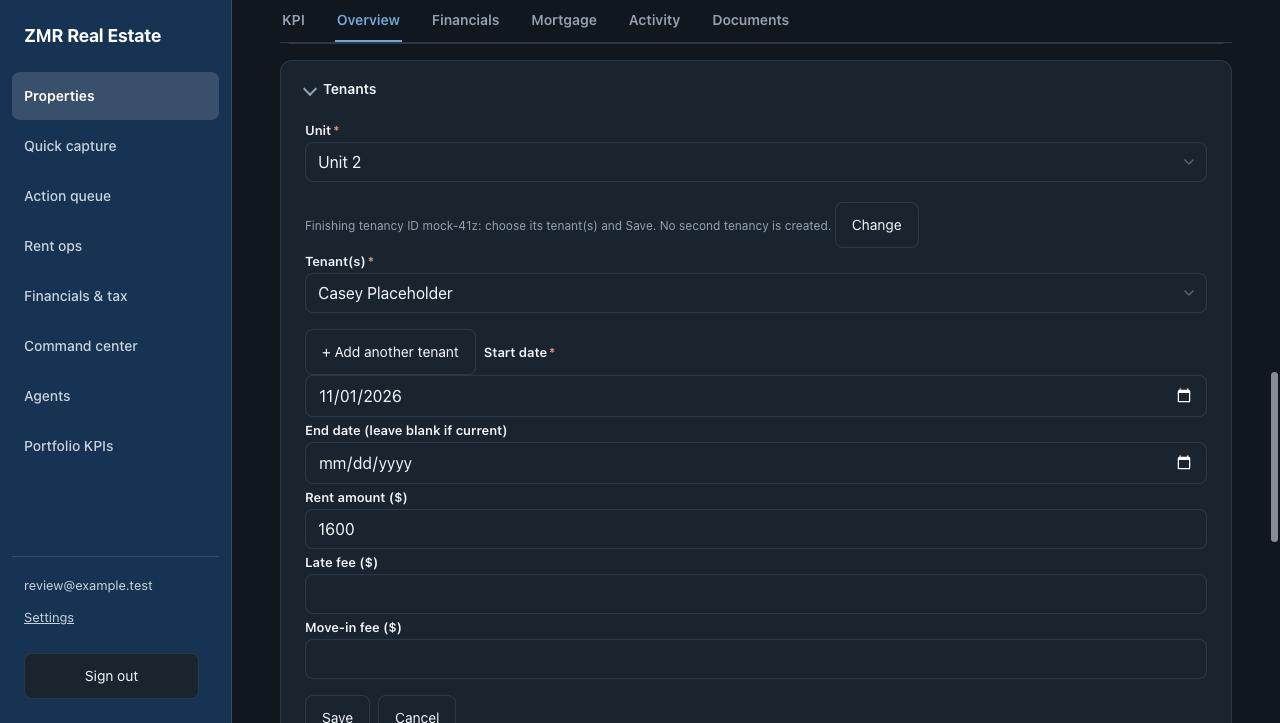
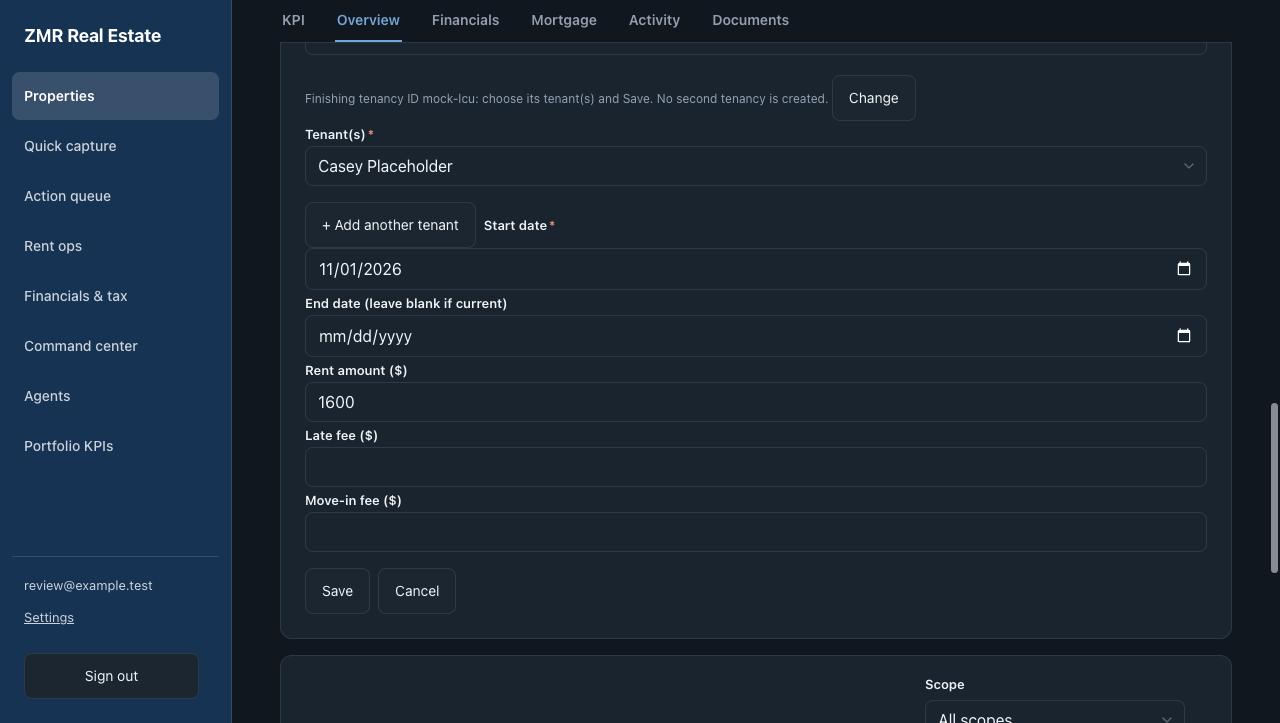
T4: owner review page — light-theme captures of key desktop/phone states (dark kept, collapsed), theme explanation, 8b retaken with Save/Cancel visible, status (app delta cleared; recovery correction outstanding), planner findings P1–P6 separated from page corrections with now/later recommendation (

diff --git a/docs/planning/agents/owner-review-billing-tenant/index.html b/docs/planning/agents/owner-review-billing-tenant/index.html
@@ -53,198 +53,80 @@
   li { margin-bottom: 4px; }
   code { font-size: .88em; }
   .reply { border-left: 4px solid var(--accent); }
+  .theme { background: var(--border); color: var(--text); }
+  .status { border-left: 4px solid var(--hosted-fg); }
+  details.dark { margin-top: 12px; }
+  details.dark > summary { cursor: pointer; color: var(--accent); font-weight: 600; }
+  details.dark .shots { margin-top: 12px; }
+  table { width: 100%; border-collapse: collapse; font-size: .92rem; }
+  th, td { text-align: left; vertical-align: top; padding: 8px; border-top: 1px solid var(--border); }
+  @media (max-width: 640px) { table, thead, tbody, tr, th, td { display: block; } thead { display: none; } td { border-top: none; padding: 4px 0; } tr { border-top: 1px solid var(--border); padding: 8px 0; } }
 </style>
 </head>
 <body>
 <main>
-  <h1>Billing issuer &amp; tenant entry: visual review</h1>
-  <p class="muted">Candidate <code>3ef4b62</code> · prepared October 2, 2026 · <strong>not live</strong></p>
-
-  <div class="panel reply">
-    <p><strong>How to reply:</strong> “Accept all”, or list item numbers with the change you want (for example, “6: shorter wording”). Accepting the visuals is <strong>not</strong> a release approval; the release is a separate yes.</p>
-    <p class="muted">Already approved, not asked again: Tenants → “+ Add tenant”, and the direct “+ Add person” issuer path.</p>
-  </div>
-
-  <div class="panel">
-    <p><strong>What the labels mean</strong></p>
-    <p><span class="chip local">Local · 3ef4b62 · simulated backend</span> Captured on October 2 from the release candidate, in the real app frame, on the local review page with a simulated backend. All names, addresses and amounts are <strong>fictional</strong>. Tenancy IDs there look like “mock-41z”; real ones look like “2407e38b”.</p>
-    <p><span class="chip hosted">Hosted Practice · 3e75bcd</span> Captured during the hosted Practice test of the earlier build <code>3e75bcd</code>, with fictional <code>ZMR-TEST-BT</code> records.</p>
-    <p><span class="chip new">Changed after the hosted test</span> Same-name wording and empty-state text changed in <code>3ef4b62</code>. They're shown only from new local captures and were not re-tested on Practice.</p>
-    <p class="muted">Desktop shots are 1280 px wide; phone shots are 390 px; one is 900 px. Desktop shots fill the page width; on a phone, tap any image to open it full size.</p>
-  </div>
-
-  <nav class="panel" aria-label="Items">
-    <ol>
-      <li><a href="#i1">Billing settings: issuer label, instructions without an issuer</a></li>
-      <li><a href="#i2">+ Add person step (desktop and phone)</a></li>
-      <li><a href="#i3">Saved issuer shown as “Person”, and their profile</a></li>
-      <li><a href="#i4">Billing same-name prompt</a></li>
-      <li><a href="#i5">Tenants: “+ Add tenant” beside Edit</a></li>
-      <li><a href="#i6">Co-tenant or separate tenancy choice</a></li>
-      <li><a href="#i7">Co-tenant form: people only, no rent</a></li>
-      <li><a href="#i8">Unfinished tenancy: offered by ID, resumed</a></li>
-      <li><a href="#i9">Same-name people: details and final prompts</a></li>
-      <li><a href="#i10">Empty Tenants box: final wording</a></li>
-      <li><a href="#i11">Units › + Add lease: same choice and resume</a></li>
-      <li><a href="#i12">Picker menus not cut off (1280 / 900 / 390)</a></li>
-    </ol>
-  </nav>
-
-  <h2>Billing settings <span class="muted">(Property › Overview › Billing settings)</span></h2>
-
-  <article id="i1">
-    <h3><span class="num">1</span> Issuer label, and saved instructions shown without an issuer</h3>
-    <p class="check">Check: the yellow note says no issuer is chosen, and the property's own payment instructions still show. In Edit, the field reads “Invoice issuer (person or business)”, followed by “+ Add person” and the explanation.</p>
-    <span class="chip local">Local · 3ef4b62 · simulated backend</span>
-    <div class="shots">
-      <figure><a href="img/01a-billing-no-issuer-instructions-visible.jpg"><img src="img/01a-billing-no-issuer-instructions-visible.jpg" alt="Billing settings view with no issuer chosen and the property's payment instructions visible" loading="lazy"></a><figcaption>1a · View, no issuer chosen</figcaption></figure>
-      <figure><a href="img/01b-billing-edit-issuer-label-and-hint.jpg"><img src="img/01b-billing-edit-issuer-label-and-hint.jpg" alt="Billing settings edit form with the Invoice issuer (person or business) field, + Add person and hints" loading="lazy"></a><figcaption>1b · Edit form</figcaption></figure>
-    </div>
-  </article>
-
-  <article id="i2">
-    <h3><span class="num">2</span> “+ Add person” step</h3>
-    <p class="check">Check: the hint explains the person is saved right away and stays even if Billing settings is cancelled, and that it doesn't make them an owner. Repeated clicks or Enter create only one person.</p>
-    <span class="chip local">Local · 3ef4b62 · simulated backend</span>
-    <div class="shots">
-      <figure><a href="img/02a-add-person-step.jpg"><img src="img/02a-add-person-step.jpg" alt="Add person step with full name field and hint" loading="lazy"></a><figcaption>2a · Desktop</figcaption></figure>
-      <figure class="phone"><a href="img/02b-add-person-step-phone.jpg"><img src="img/02b-add-person-step-phone.jpg" alt="Add person step on a phone-width screen" loading="lazy"></a><figcaption>2b · Phone (390 px)</figcaption></figure>
-    </div>
-  </article>
-
-  <article id="i3">
-    <h3><span class="num">3</span> Saved issuer shown as “Person”, and their profile</h3>
-    <p class="check">Check: the issuer shows “Person”, with a link to add their invoice code. Their profile says Individual, with “No properties linked yet”.</p>
-    <span class="chip local">Local · 3ef4b62 · simulated backend</span>
-    <div class="shots">
-      <figure><a href="img/03a-saved-issuer-person.jpg"><img src="img/03a-saved-issuer-person.jpg" alt="Billing settings view showing Taylor Fictional as the issuer, labelled Person" loading="lazy"></a><figcaption>3a · Billing settings after Save</figcaption></figure>
-      <figure><a href="img/03b-issuer-profile-individual.jpg"><img src="img/03b-issuer-profile-individual.jpg" alt="Issuer profile showing Individual and no linked properties" loading="lazy"></a><figcaption>3b · Issuer profile</figcaption></figure>
-    </div>
-  </article>
-
-  <article id="i4">
-    <h3><span class="num">4</span> Billing same-name prompt</h3>
-    <p class="check">Check: a name already in your records offers “Use existing” or “Add a different person with this name”. Reuse is never forced.</p>
-    <span class="chip local">Local · 3ef4b62 · simulated backend</span>
-    <div class="shots wide">
-      <figure><a href="img/04-billing-same-name-prompt.jpg"><img src="img/04-billing-same-name-prompt.jpg" alt="Prompt saying taylor fictional is already in your records with Use existing and Add a different person buttons" loading="lazy"></a><figcaption>4 · Same name entered again</figcaption></figure>
-    </div>
-  </article>
-
-  <h2>Tenants <span class="muted">(Property › Overview › Tenants)</span></h2>
-
-  <article id="i5">
-    <h3><span class="num">5</span> “+ Add tenant” beside Edit</h3>
-    <p class="check">Check: the button is visible while the box is collapsed and opens it straight into the form. Edit still opens the same form.</p>
-    <span class="chip local">Local · 3ef4b62 · simulated backend</span>
-    <div class="shots wide">
-      <figure><a href="img/05-tenants-add-tenant-beside-edit.jpg"><img src="img/05-tenants-add-tenant-beside-edit.jpg" alt="Collapsed Tenants box with + Add tenant and Edit buttons" loading="lazy"></a><figcaption>5 · Collapsed Tenants box</figcaption></figure>
-    </div>
-  </article>
-
-  <article id="i6">
-    <h3><span class="num">6</span> Co-tenant or separate tenancy</h3>
-    <p class="check">Check: when the unit already has a tenancy, you must choose. A co-tenant shares its rent and adds no new rent; a separate tenancy has its own rent, counted in addition.</p>
-    <span class="chip local">Local · 3ef4b62 · simulated backend</span>
-    <div class="shots">
-      <figure><a href="img/06a-choice-cotenant-or-separate.jpg"><img src="img/06a-choice-cotenant-or-separate.jpg" alt="Choice between a co-tenant on the existing tenancy and a separate tenancy" loading="lazy"></a><figcaption>6a · Desktop</figcaption></figure>
-      <figure class="phone"><a href="img/06b-choice-phone.jpg"><img src="img/06b-choice-phone.jpg" alt="The same choice on a phone-width screen" loading="lazy"></a><figcaption>6b · Phone (390 px)</figcaption></figure>
-    </div>
-  </article>
-
-  <article id="i7">
-    <h3><span class="num">7</span> Co-tenant form: people only</h3>
-    <p class="check">Check: the note says the tenancy's rent, dates and fees stay as they are. There are no rent or date fields, only people and Save.</p>
-    <span class="chip local">Local · 3ef4b62 · simulated backend</span>
-    <div class="shots wide">
-      <figure><a href="img/07-cotenant-form-no-rent.jpg"><img src="img/07-cotenant-form-no-rent.jpg" alt="Co-tenant form with a tenant chosen and Save, without rent fields" loading="lazy"></a><figcaption>7 · Adding a co-tenant</figcaption></figure>
-    </div>
-  </article>
-
-  <article id="i8">
-    <h3><span class="num">8</span> Unfinished tenancy: offered by ID, resumed</h3>
-    <p class="check">Check: after a save that didn't finish (here a simulated dropped connection, then a page reload), the tenancy is offered by its ID with its saved details. Resume pre-fills the rent and dates, and saving creates no second tenancy.</p>
-    <span class="chip local">Local · 3ef4b62 · simulated backend</span>
-    <div class="shots">
-      <figure><a href="img/08a-unfinished-offered-by-id.jpg"><img src="img/08a-unfinished-offered-by-id.jpg" alt="Unfinished tenancy offered with ID, saved date, start date and rent" loading="lazy"></a><figcaption>8a · Offered after reload</figcaption></figure>
-      <figure><a href="img/08b-resume-prefilled.jpg"><img src="img/08b-resume-prefilled.jpg" alt="Resume form with tenant chosen and rent 1600 pre-filled" loading="lazy"></a><figcaption>8b · Resume, $1,600 pre-filled</figcaption></figure>
-    </div>
-  </article>
-
-  <article id="i9">
-    <h3><span class="num">9</span> Same-name people: details and final prompts</h3>
-    <p class="check">Check: same-name people show email or phone and the date added. A person already on the tenancy is listed but <em>not</em> offered. “Create a different person with this name” is always available.</p>
-    <span class="chip local">Local · 3ef4b62 · simulated backend</span> <span class="chip new">Changed after the hosted test (9c, 9d)</span>
-    <div class="shots">
-      <figure><a href="img/09a-picker-same-name-details.jpg"><img src="img/09a-picker-same-name-details.jpg" alt="Tenant picker listing two Jordan Sample people with their details" loading="lazy"></a><figcaption>9a · Picker shows details for same names</figcaption></figure>
-      <figure><a href="img/09b-separate-same-name-prompt.jpg"><img src="img/09b-separate-same-name-prompt.jpg" alt="Prompt offering Use existing for two same-name people or Create a different person" loading="lazy"></a><figcaption>9b · Separate tenancy: Use existing or create different</figcaption></figure>
-      <figure><a href="img/09c-cotenant-same-name-prompt-final.jpg"><img src="img/09c-cotenant-same-name-prompt-final.jpg" alt="Co-tenant prompt saying they can't be added again here, listing Already on this tenancy, with Create a different person" loading="lazy"></a><figcaption>9c · <strong>New:</strong> co-tenant form, person already on this tenancy</figcaption></figure>
-      <figure class="phone"><a href="img/09d-cotenant-same-name-prompt-phone.jpg"><img src="img/09d-cotenant-same-name-prompt-phone.jpg" alt="The same co-tenant prompt on a phone-width screen" loading="lazy"></a><figcaption>9d · <strong>New:</strong> same prompt on phone</figcaption></figure>
-    </div>
-  </article>
-
-  <article id="i10">
-    <h3><span class="num">10</span> Empty Tenants box: final wording</h3>
-    <p class="check">Check: “No tenants yet — use + Add tenant above, or + Add lease on a unit in Units.”</p>
-    <span class="chip local">Local · 3ef4b62 · simulated backend</span> <span class="chip new">Changed after the hosted test</span>
-    <div class="shots wide">
-      <figure><a href="img/10-empty-state-final.jpg"><img src="img/10-empty-state-final.jpg" alt="Empty Tenants box with the new wording" loading="lazy"></a><figcaption>10 · Property with no tenancies</figcaption></figure>
-    </div>
-  </article>
-
-  <h2>Units <span class="muted">(Property › Overview › Units › Edit › + Add lease)</span></h2>
-
-  <article id="i11">
-    <h3><span class="num">11</span> Same choice and resume from Units</h3>
-    <p class="check">Check: “+ Add lease” on a unit asks the same co-tenant or separate question, and offers an unfinished tenancy by ID.</p>
-    <span class="chip local">Local · 3ef4b62 · simulated backend</span>
-    <div class="shots">
-      <figure><a href="img/11a-units-choice.jpg"><img src="img/11a-units-choice.jpg" alt="Unit 1 card showing the co-tenant or separate tenancy choice" loading="lazy"></a><figcaption>11a · Unit with a current tenancy</figcaption></figure>
-      <figure><a href="img/11b-units-unfinished-offered.jpg"><img src="img/11b-units-unfinished-offered.jpg" alt="Unit 2 card offering the unfinished tenancy by ID" loading="lazy"></a><figcaption>11b · Unit with an unfinished tenancy</figcaption></figure>
-    </div>
-  </article>
-
-  <h2>Picker menus</h2>
-
-  <article id="i12">
-    <h3><span class="num">12</span> Menus no longer cut off at a box's edge</h3>
-    <p class="check">Check: the menu shows in full over the box below it, and its last option (“+ Add new tenant”) is reachable. Menus scroll inside themselves after a few rows.</p>
-    <span class="chip local">Local · 3ef4b62 · simulated backend (12a–12c)</span> <span class="chip hosted">Hosted Practice · 3e75bcd (12d)</span>
-    <div class="shots">
-      <figure><a href="img/12a-menu-1280.jpg"><img src="img/12a-menu-1280.jpg" alt="Tenant picker menu at 1280 px extending past the Tenants box" loading="lazy"></a><figcaption>12a · 1280 px</figcaption></figure>
-      <figure><a href="img/12b-menu-900.jpg"><img src="img/12b-menu-900.jpg" alt="Tenant picker menu at 900 px" loading="lazy"></a><figcaption>12b · 900 px</figcaption></figure>
-      <figure class="phone"><a href="img/12c-menu-390.jpg"><img src="img/12c-menu-390.jpg" alt="Tenant picker menu at 390 px" loading="lazy"></a><figcaption>12c · 390 px</figcaption></figure>
-      <figure class="phone"><a href="img/12d-hosted-3e75bcd-menu-390.jpg"><img src="img/12d-hosted-3e75bcd-menu-390.jpg" alt="Hosted Practice capture of the picker at 390 px with same-name details" loading="lazy"></a><figcaption>12d · Hosted Practice, 390 px. Lower resolution (browser zoom), menu not scrolled to its last row; the hosted test confirmed by measurement that the last row is reachable.</figcaption></figure>
-    </div>
-  </article>
-
-  <h2>Gaps and observations <span class="muted">(reported plainly)</span></h2>
-  <div class="panel">
-    <span class="chip gap">Not shown</span>
-    <ul>
-      <li>The Rent ops draft-blocker wording (“…add one on their profile”) isn't captured. It only appears on an invoice draft, and drafts were out of scope for this review and the Practice test.</li>
-      <li>Items 9 (co-tenant prompt) and 10 changed after the hosted test. They're verified locally and under review by T3, but weren't re-run on Practice.</li>
-    </ul>
-    <span class="chip gap">Existing behaviour, not changed in this candidate (your call whether to queue)</span>
-    <ul>
-      <li>1a / 3a: payment instructions display in large text in a narrow column.</li>
-      <li>1b: “+ Add person” stretches across the full field width, unlike other buttons.</li>
-      <li>9c: the inline new-tenant form shows two Cancel buttons, and its button says “Add tenant” rather than “Save”.</li>
-      <li>8b: “+ Add another tenant” sits beside the “Start date” label in the lease form.</li>
-      <li>11b: a unit card shows “Rent: $0 — Not set up” when its only tenancy is upcoming, because cards summarise the current tenancy.</li>
-      <li>Recorded separately: adding a unit needs a status, so an empty status list blocks it. Units › Lease history refreshes only after a reload when a save started from Tenants didn't finish.</li>
-    </ul>
-  </div>
-
-  <h2>What happens after this review</h2>
-  <div class="panel">
-    <ol>
-      <li>T3 clears the final delta (<code>2d8aa76..5692647</code>). In progress.</li>
-      <li>Your visual decision on items 1–12.</li>
-      <li>Your separate, explicit release approval for exactly <code>3ef4b62</code>.</li>
-      <li>At release time: production still at <code>d9cdcb3</code>, a clean build, the T2 dropdown fix shipping only inside this release, then publish, a read-only live check, and recovery pinned to the prior deploy.</li>
-    </ol>
-  </div>
+<h1>Billing issuer &amp; tenant entry: visual review</h1>
+<p class="muted">Candidate <code>3ef4b62</code> · updated October 2, 2026 · <strong>not live</strong></p>
+<div class="panel status"><p><strong>Status</strong></p><ul>
+<li><strong>Application change: cleared.</strong> T3 cleared the final tenant delta (<code>2d8aa76..5692647</code>, the same-name check and empty-state text). The candidate is <code>3ef4b62</code>, unchanged.</li>
+<li><strong>Recovery correction: outstanding.</strong> The scoped-recovery fix for finding R1 (tooling/docs <code>d280c61</code>) is awaiting T3 review.</li>
+<li>Accepting these visuals is <strong>not</strong> release approval. Nothing is deployed.</li></ul></div>
+<div class="panel reply"><p><strong>How to reply:</strong> “Accept all”, or list item numbers with the change you want (for example, “6: shorter wording”). For the proposed application changes (P1–P6, near the end), say <strong>now</strong>, <strong>later</strong> or <strong>no</strong> for each.</p>
+<p class="muted">Already approved, not asked again: Tenants → “+ Add tenant”, and the direct “+ Add person” issuer path.</p></div>
+<div class="panel"><p><strong>Why some screenshots look dark</strong></p>
+<p>The dashboard follows your computer's light or dark setting, unless a choice is saved under Settings › Appearance. The Mac used for these captures is set to dark, so the first set came out dark. Your live dashboard showed light, so this page now leads with <strong>light-theme captures</strong> of the key screens. Same build, same layout; only colors differ.</p>
+<p class="muted">Screens without a light capture are marked “Dark theme”. Every light screen also has its dark version in a collapsed section.</p></div>
+<div class="panel"><p><strong>What the labels mean</strong></p>
+<p><span class="chip local">Local · 3ef4b62 · simulated backend</span> Captured from the release candidate, in the real app frame, on the local review page with a simulated backend. All names, addresses and amounts are <strong>fictional</strong>. Tenancy IDs there look like “mock-lcu”; real ones look like “2407e38b”.</p>
+<p><span class="chip hosted">Hosted Practice · 3e75bcd</span> Captured during the hosted Practice test of the earlier build, with fictional <code>ZMR-TEST-BT</code> records.</p>
+<p><span class="chip new">Changed after the hosted test</span> The same-name wording and empty-state text changed in <code>3ef4b62</code>. They're shown only from new local captures and weren't re-run on Practice.</p>
+<p class="muted">Desktop shots are 1280 px wide, phone shots 390 px, one shot 900 px. On a phone, tap any image to open it full size.</p></div>
+<nav class="panel" aria-label="Items"><ol>
+<li><a href="#i1">Billing settings: issuer label, instructions without an issuer</a></li><li><a href="#i2">+ Add person step (desktop and phone)</a></li><li><a href="#i3">Saved issuer shown as “Person”, and their profile</a></li><li><a href="#i4">Billing same-name prompt</a></li><li><a href="#i5">Tenants: “+ Add tenant” beside Edit</a></li><li><a href="#i6">Co-tenant or separate tenancy choice</a></li><li><a href="#i7">Co-tenant form: people only, no rent</a></li><li><a href="#i8">Unfinished tenancy: offered by ID, resumed</a></li><li><a href="#i9">Same-name people: details and final prompts</a></li><li><a href="#i10">Empty Tenants box: final wording</a></li><li><a href="#i11">Units › + Add lease: same choice and resume</a></li><li><a href="#i12">Picker menus not cut off (1280 / 900 / 390)</a></li>
+</ol><p><a href="#findings">Planner findings and proposed changes (P1–P6)</a></p></nav>
+<h2>Billing settings <span class="muted">(Property › Overview › Billing settings)</span></h2>
+<article id="i1"><h3><span class="num">1</span> Issuer label, and saved instructions shown without an issuer</h3><p class="check">Check: with no issuer chosen, a yellow note says so and the property's own payment instructions still show. In Edit, the field reads “Invoice issuer (person or business)”, followed by “+ Add person” and the explanation.</p><span class="chip local">Local · 3ef4b62 · simulated backend</span><div class="shots"><figure><a href="img/01b-billing-edit-issuer-label-and-hint-light.jpg"><img src="img/01b-billing-edit-issuer-label-and-hint-light.jpg" alt="Billing settings edit form, light theme" loading="lazy"></a><figcaption>1b · Edit form <span class="chip theme">Light theme</span></figcaption></figure></div><div class="shots"><figure><a href="img/01a-billing-no-issuer-instructions-visible.jpg"><img src="img/01a-billing-no-issuer-instructions-visible.jpg" alt="Billing settings view with no issuer and the instructions visible" loading="lazy"></a><figcaption>1a · View with no issuer chosen <span class="chip theme">Dark theme</span></figcaption></figure></div><details class="dark"><summary>Same screens in dark theme</summary><div class="shots"><figure><a href="img/01b-billing-edit-issuer-label-and-hint.jpg"><img src="img/01b-billing-edit-issuer-label-and-hint.jpg" alt="Billing settings edit form, dark theme" loading="lazy"></a><figcaption>1b · Edit form (dark)</figcaption></figure></div></details></article>
+<article id="i2"><h3><span class="num">2</span> “+ Add person” step</h3><p class="check">Check: the hint says the person is saved right away and stays even if Billing settings is cancelled, and that it doesn't make them an owner. Repeated clicks or Enter create only one person.</p><span class="chip local">Local · 3ef4b62 · simulated backend</span><div class="shots"><figure><a href="img/02a-add-person-step-light.jpg"><img src="img/02a-add-person-step-light.jpg" alt="Add person step, light theme" loading="lazy"></a><figcaption>2a · Desktop <span class="chip theme">Light theme</span></figcaption></figure><figure class="phone"><a href="img/02b-add-person-step-phone-light.jpg"><img src="img/02b-add-person-step-phone-light.jpg" alt="Add person step on phone, light theme" loading="lazy"></a><figcaption>2b · Phone (390 px) <span class="chip theme">Light theme</span></figcaption></figure></div><details class="dark"><summary>Same screens in dark theme</summary><div class="shots"><figure><a href="img/02a-add-person-step.jpg"><img src="img/02a-add-person-step.jpg" alt="Add person step, dark" loading="lazy"></a><figcaption>2a · Desktop (dark)</figcaption></figure><figure class="phone"><a href="img/02b-add-person-step-phone.jpg"><img src="img/02b-add-person-step-phone.jpg" alt="Add person step on phone, dark" loading="lazy"></a><figcaption>2b · Phone (dark)</figcaption></figure></div></details></article>
+<article id="i3"><h3><span class="num">3</span> Saved issuer shown as “Person”, and their profile</h3><p class="check">Check: the issuer shows “Person”, with a link to add their invoice code. Their profile says Individual, with “No properties linked yet”.</p><span class="chip local">Local · 3ef4b62 · simulated backend</span><div class="shots"><figure><a href="img/03a-saved-issuer-person-light.jpg"><img src="img/03a-saved-issuer-person-light.jpg" alt="Billing settings after saving the person issuer, light" loading="lazy"></a><figcaption>3a · After Save <span class="chip theme">Light theme</span></figcaption></figure></div><div class="shots"><figure><a href="img/03b-issuer-profile-individual.jpg"><img src="img/03b-issuer-profile-individual.jpg" alt="Issuer profile showing Individual and no linked properties" loading="lazy"></a><figcaption>3b · Issuer profile <span class="chip theme">Dark theme</span></figcaption></figure></div><details class="dark"><summary>Same screens in dark theme</summary><div class="shots"><figure><a href="img/03a-saved-issuer-person.jpg"><img src="img/03a-saved-issuer-person.jpg" alt="Billing settings after save, dark" loading="lazy"></a><figcaption>3a · After Save (dark)</figcaption></figure></div></details></article>
+<article id="i4"><h3><span class="num">4</span> Billing same-name prompt</h3><p class="check">Check: a name already in your records offers “Use existing” or “Add a different person with this name”. Reuse is never forced.</p><span class="chip local">Local · 3ef4b62 · simulated backend</span><div class="shots"><figure><a href="img/04-billing-same-name-prompt.jpg"><img src="img/04-billing-same-name-prompt.jpg" alt="Billing same-name prompt" loading="lazy"></a><figcaption>4 · Same name entered again <span class="chip theme">Dark theme</span></figcaption></figure></div></article>
+<h2>Tenants <span class="muted">(Property › Overview › Tenants)</span></h2>
+<article id="i5"><h3><span class="num">5</span> “+ Add tenant” beside Edit</h3><p class="check">Check: the button is visible while the box is collapsed and opens it straight into the form. Edit still opens the same form.</p><span class="chip local">Local · 3ef4b62 · simulated backend</span><div class="shots"><figure><a href="img/05-tenants-add-tenant-beside-edit-light.jpg"><img src="img/05-tenants-add-tenant-beside-edit-light.jpg" alt="Collapsed Tenants box with + Add tenant and Edit, light" loading="lazy"></a><figcaption>5 · Collapsed Tenants box <span class="chip theme">Light theme</span></figcaption></figure></div><details class="dark"><summary>Same screens in dark theme</summary><div class="shots"><figure><a href="img/05-tenants-add-tenant-beside-edit.jpg"><img src="img/05-tenants-add-tenant-beside-edit.jpg" alt="Collapsed Tenants box, dark" loading="lazy"></a><figcaption>5 (dark)</figcaption></figure></div></details></article>
+<article id="i6"><h3><span class="num">6</span> Co-tenant or separate tenancy</h3><p class="check">Check: when the unit already has a tenancy, you must choose. A co-tenant shares its rent and adds no new rent; a separate tenancy has its own rent, counted in addition.</p><span class="chip local">Local · 3ef4b62 · simulated backend</span><div class="shots"><figure><a href="img/06a-choice-cotenant-or-separate-light.jpg"><img src="img/06a-choice-cotenant-or-separate-light.jpg" alt="Co-tenant or separate choice, light" loading="lazy"></a><figcaption>6a · Desktop <span class="chip theme">Light theme</span></figcaption></figure><figure class="phone"><a href="img/06b-choice-phone-light.jpg"><img src="img/06b-choice-phone-light.jpg" alt="Choice on phone, light" loading="lazy"></a><figcaption>6b · Phone (390 px) <span class="chip theme">Light theme</span></figcaption></figure></div><details class="dark"><summary>Same screens in dark theme</summary><div class="shots"><figure><a href="img/06a-choice-cotenant-or-separate.jpg"><img src="img/06a-choice-cotenant-or-separate.jpg" alt="Choice, dark" loading="lazy"></a><figcaption>6a (dark)</figcaption></figure><figure class="phone"><a href="img/06b-choice-phone.jpg"><img src="img/06b-choice-phone.jpg" alt="Choice on phone, dark" loading="lazy"></a><figcaption>6b (dark)</figcaption></figure></div></details></article>
+<article id="i7"><h3><span class="num">7</span> Co-tenant form: people only</h3><p class="check">Check: the note says the tenancy's rent, dates and fees stay as they are. There are no rent or date fields, only people and Save.</p><span class="chip local">Local · 3ef4b62 · simulated backend</span><div class="shots"><figure><a href="img/07-cotenant-form-no-rent.jpg"><img src="img/07-cotenant-form-no-rent.jpg" alt="Co-tenant form without rent fields" loading="lazy"></a><figcaption>7 · Adding a co-tenant <span class="chip theme">Dark theme</span></figcaption></figure></div></article>
+<article id="i8"><h3><span class="num">8</span> Unfinished tenancy: offered by ID, resumed</h3><p class="check">Check: after a save that didn't finish (here a simulated dropped connection, then a page reload), the tenancy is offered by its ID with its saved details. Resume pre-fills the rent and dates, and saving creates no second tenancy.</p><span class="chip local">Local · 3ef4b62 · simulated backend</span><div class="shots"><figure><a href="img/08a-unfinished-offered-by-id-light.jpg"><img src="img/08a-unfinished-offered-by-id-light.jpg" alt="Unfinished tenancy offered by ID, light" loading="lazy"></a><figcaption>8a · Offered after reload <span class="chip theme">Light theme</span></figcaption></figure><figure><a href="img/08b-resume-prefilled-light.jpg"><img src="img/08b-resume-prefilled-light.jpg" alt="Resume form with rent pre-filled and Save and Cancel visible, light" loading="lazy"></a><figcaption>8b · Resume, $1,600 pre-filled, with Save / Cancel visible <span class="chip theme">Light theme</span></figcaption></figure></div><details class="dark"><summary>Same screens in dark theme</summary><div class="shots"><figure><a href="img/08a-unfinished-offered-by-id.jpg"><img src="img/08a-unfinished-offered-by-id.jpg" alt="Unfinished tenancy offered, dark" loading="lazy"></a><figcaption>8a (dark)</figcaption></figure><figure><a href="img/08b-resume-prefilled.jpg"><img src="img/08b-resume-prefilled.jpg" alt="Resume form with Save and Cancel visible, dark" loading="lazy"></a><figcaption>8b (dark, retaken with Save / Cancel visible)</figcaption></figure></div></details></article>
+<article id="i9"><h3><span class="num">9</span> Same-name people: details and final prompts</h3><p class="check">Check: same-name people show email or phone and the date added. A person already on the tenancy is listed but <em>not</em> offered. “Create a different person with this name” is always available.</p><span class="chip local">Local · 3ef4b62 · simulated backend</span> <span class="chip new">Changed after the hosted test</span> <span class="muted">(9c, 9d)</span><div class="shots"><figure><a href="img/09c-cotenant-same-name-prompt-final-light.jpg"><img src="img/09c-cotenant-same-name-prompt-final-light.jpg" alt="Final co-tenant same-name prompt, light" loading="lazy"></a><figcaption>9c · <strong>New:</strong> co-tenant form, person already on this tenancy <span class="chip theme">Light theme</span></figcaption></figure><figure class="phone"><a href="img/09d-cotenant-same-name-prompt-phone-light.jpg"><img src="img/09d-cotenant-same-name-prompt-phone-light.jpg" alt="Final co-tenant same-name prompt on phone, light" loading="lazy"></a><figcaption>9d · <strong>New:</strong> same prompt on phone <span class="chip theme">Light theme</span></figcaption></figure></div><div class="shots"><figure><a href="img/09a-picker-same-name-details.jpg"><img src="img/09a-picker-same-name-details.jpg" alt="Picker listing two same-name people with details" loading="lazy"></a><figcaption>9a · Picker shows details for same names <span class="chip theme">Dark theme</span></figcaption></figure><figure><a href="img/09b-separate-same-name-prompt.jpg"><img src="img/09b-separate-same-name-prompt.jpg" alt="Separate tenancy same-name prompt with Use existing for both" loading="lazy"></a><figcaption>9b · Separate tenancy: Use existing or create different <span class="chip theme">Dark theme</span></figcaption></figure></div><details class="dark"><summary>Same screens in dark theme</summary><div class="shots"><figure><a href="img/09c-cotenant-same-name-prompt-final.jpg"><img src="img/09c-cotenant-same-name-prompt-final.jpg" alt="Co-tenant prompt, dark" loading="lazy"></a><figcaption>9c (dark)</figcaption></figure><figure class="phone"><a href="img/09d-cotenant-same-name-prompt-phone.jpg"><img src="img/09d-cotenant-same-name-prompt-phone.jpg" alt="Co-tenant prompt on phone, dark" loading="lazy"></a><figcaption>9d (dark)</figcaption></figure></div></details></article>
+<article id="i10"><h3><span class="num">10</span> Empty Tenants box: final wording</h3><p class="check">Check: “No tenants yet — use + Add tenant above, or + Add lease on a unit in Units.”</p><span class="chip local">Local · 3ef4b62 · simulated backend</span> <span class="chip new">Changed after the hosted test</span><div class="shots"><figure><a href="img/10-empty-state-final-light.jpg"><img src="img/10-empty-state-final-light.jpg" alt="Empty Tenants box with new wording, light" loading="lazy"></a><figcaption>10 · Property with no tenancies <span class="chip theme">Light theme</span></figcaption></figure></div><details class="dark"><summary>Same screens in dark theme</summary><div class="shots"><figure><a href="img/10-empty-state-final.jpg"><img src="img/10-empty-state-final.jpg" alt="Empty Tenants box, dark" loading="lazy"></a><figcaption>10 (dark)</figcaption></figure></div></details></article>
+<h2>Units <span class="muted">(Property › Overview › Units › Edit › + Add lease)</span></h2>
+<article id="i11"><h3><span class="num">11</span> Same choice and resume from Units</h3><p class="check">Check: “+ Add lease” on a unit asks the same co-tenant or separate question, and offers an unfinished tenancy by ID.</p><span class="chip local">Local · 3ef4b62 · simulated backend</span><div class="shots"><figure><a href="img/11a-units-choice-light.jpg"><img src="img/11a-units-choice-light.jpg" alt="Unit 1 card with the choice, light" loading="lazy"></a><figcaption>11a · Unit with a current tenancy <span class="chip theme">Light theme</span></figcaption></figure><figure><a href="img/11b-units-unfinished-offered-light.jpg"><img src="img/11b-units-unfinished-offered-light.jpg" alt="Unit 2 card offering the unfinished tenancy, light" loading="lazy"></a><figcaption>11b · Unit with an unfinished tenancy <span class="chip theme">Light theme</span></figcaption></figure></div><details class="dark"><summary>Same screens in dark theme</summary><div class="shots"><figure><a href="img/11a-units-choice.jpg"><img src="img/11a-units-choice.jpg" alt="Unit choice, dark" loading="lazy"></a><figcaption>11a (dark)</figcaption></figure><figure><a href="img/11b-units-unfinished-offered.jpg"><img src="img/11b-units-unfinished-offered.jpg" alt="Unit unfinished, dark" loading="lazy"></a><figcaption>11b (dark)</figcaption></figure></div></details></article>
+<h2>Picker menus</h2>
+<article id="i12"><h3><span class="num">12</span> Menus no longer cut off at a box's edge</h3><p class="check">Check: the menu shows in full over the box below it, and its last option (“+ Add new tenant”) is reachable. Menus scroll inside themselves after a few rows.</p><span class="chip local">Local · 3ef4b62 · simulated backend</span> <span class="chip hosted">Hosted Practice · 3e75bcd (12d)</span><div class="shots"><figure><a href="img/12a-menu-1280-light.jpg"><img src="img/12a-menu-1280-light.jpg" alt="Picker menu at 1280 px, light" loading="lazy"></a><figcaption>12a · 1280 px <span class="chip theme">Light theme</span></figcaption></figure><figure class="phone"><a href="img/12c-menu-390-light.jpg"><img src="img/12c-menu-390-light.jpg" alt="Picker menu at 390 px, light" loading="lazy"></a><figcaption>12c · 390 px <span class="chip theme">Light theme</span></figcaption></figure></div><div class="shots"><figure><a href="img/12b-menu-900.jpg"><img src="img/12b-menu-900.jpg" alt="Picker menu at 900 px" loading="lazy"></a><figcaption>12b · 900 px <span class="chip theme">Dark theme</span></figcaption></figure><figure class="phone"><a href="img/12d-hosted-3e75bcd-menu-390.jpg"><img src="img/12d-hosted-3e75bcd-menu-390.jpg" alt="Hosted Practice picker at 390 px" loading="lazy"></a><figcaption>12d · Hosted Practice, 390 px. Lower resolution (browser zoom), menu not scrolled to its last row; the hosted test confirmed by measurement that the last row is reachable. <span class="chip theme">Dark theme</span></figcaption></figure></div><details class="dark"><summary>Same screens in dark theme</summary><div class="shots"><figure><a href="img/12a-menu-1280.jpg"><img src="img/12a-menu-1280.jpg" alt="Menu 1280, dark" loading="lazy"></a><figcaption>12a (dark)</figcaption></figure><figure class="phone"><a href="img/12c-menu-390.jpg"><img src="img/12c-menu-390.jpg" alt="Menu 390, dark" loading="lazy"></a><figcaption>12c (dark)</figcaption></figure></div></details></article>
+<h2 id="findings">Planner findings and proposed changes</h2>
+<div class="panel"><p><strong>Review-page corrections (done; the candidate is unchanged)</strong></p><ul>
+<li>Added light-theme captures of the key desktop and phone screens, explained the dark captures, and kept the dark versions in collapsed sections.</li>
+<li>Retook 8b with Save and Cancel fully visible, in light and dark.</li>
+<li>Updated the status: application change cleared; recovery correction outstanding.</li></ul></div>
+<div class="panel"><p><strong>Proposed application changes</strong>: <em>not</em> in <code>3ef4b62</code>. Each needs your choice: <strong>now</strong>, <strong>later</strong> or <strong>no</strong>. Any “now” item becomes a small new delta (T3 review, re-capture), and the release candidate changes only after you say so.</p>
+<table><thead><tr><th>#</th><th>Finding</th><th>Where</th><th>T4 recommendation</th></tr></thead><tbody>
+<tr><td>P1</td><td>Ambiguous Cancel and action order. The inline new-tenant form shows its own “Add tenant” and Cancel above the lease form's Cancel, so two Cancels sit stacked. “Add tenant” also breaks the app's “Save” wording rule.</td><td>Items 9b–9d (inline new tenant), 8b</td><td><strong>Fix now.</strong> It sits in the main new flow, and it's a small, contained change (one Cancel per step; “Save” wording).</td></tr>
+<tr><td>P2</td><td>An upcoming tenancy shows as “Rent: $0 — Not set up” on the unit card, as a warning.</td><td>Item 11b; also after adding any future-dated tenancy</td><td><strong>Fix now.</strong> The new flow creates future-dated tenancies routinely, and a false “not set up” warning would mislead. Show “Upcoming: $X from &lt;date&gt;” instead.</td></tr>
+<tr><td>P3</td><td>The remaining “Manage tenants in Units ↓” link now competes with “+ Add tenant”.</td><td>Items 10, 5</td><td><strong>Fix now</strong> (wording only), e.g. “Lease history and end dates are in Units ↓”, or remove it.</td></tr>
+<tr><td>P4</td><td>Payment instructions display in large text in a narrow column.</td><td>Items 1a, 3a</td><td><strong>Later.</strong> This is the released Stage 1 billing display style, not part of this change. Queue it with the next billing polish.</td></tr>
+<tr><td>P5</td><td>The explanations are long on a phone (choice, unfinished tenancy, same-name prompts).</td><td>Items 6b, 9d</td><td><strong>Later</strong>, as a wording pass you approve. It's readable now and nothing breaks; shorter text should be reviewed side by side.</td></tr>
+<tr><td>P6</td><td>Some dates are in ISO format (e.g. “Lease end date: 2026-12-31”).</td><td>Item 11a; Units and Lease history</td><td><strong>Later.</strong> It's app-wide date formatting across existing screens, best done once for every screen.</td></tr>
+</tbody></table>
+<p class="muted">Recorded separately, not proposed here: adding a unit needs a status, so an empty status list blocks it. Units › Lease history refreshes only after a reload when a save started from Tenants didn't finish.</p></div>
+<h2>Gaps <span class="muted">(reported plainly)</span></h2>
+<div class="panel"><ul>
+<li>The Rent ops draft-blocker wording (“…add one on their profile”) isn't captured. It only appears on an invoice draft, and drafts were out of scope.</li>
+<li>Items 9c/9d and 10 changed after the hosted test. They're verified locally and cleared by T3, but weren't re-run on Practice.</li>
+<li>Some screens have dark captures only: 1a, 3b, 4, 7, 9a, 9b, 12b and 12d.</li></ul></div>
+<h2>What happens after this review</h2>
+<div class="panel"><ol>
+<li>Your visual decision on items 1–12, and now / later / no on P1–P6.</li>
+<li>If any P item is “now”: a small new delta, T3 review, new captures, and a new candidate hash for approval.</li>
+<li>T3 clears the recovery correction (<code>d280c61</code>).</li>
+<li>Your separate, explicit release approval for the exact candidate.</li>
+<li>At release time: production still <code>d9cdcb3</code>, the live deploy still <code>6abecfa8…</code>, a clean build, then publish, a read-only live check, and recovery pinned to the prior deploy.</li></ol></div>
 </main>
 </body>
 </html>
